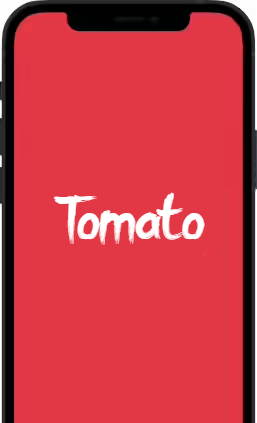
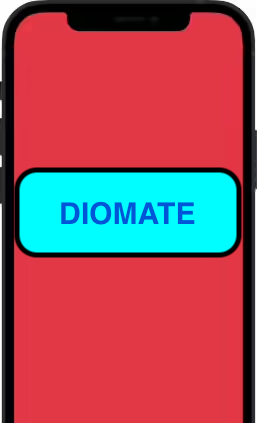
Updated

Changed region(s): [[0.0311, 0.3688, 0.965, 0.6147]]

diff --git a/src/pages/User/User.jsx b/src/pages/User/User.jsx
@@ -30,15 +30,15 @@ const User = () => {
     ];
 
     let data3 = [
-        {userId: 123, imgSrc:userImg, userName: "Koushil Mankali", reviews: 200, followers: "123"},
-        {userId: 123, imgSrc:userImg, userName: "Koushil Mankali", reviews: 200, followers: "123"},
-        {userId: 123, imgSrc:userImg, userName: "Koushil Mankali", reviews: 200, followers: "123"},
-        {userId: 123, imgSrc:userImg, userName: "Koushil Mankali", reviews: 200, followers: "123"}
+        {userId: 123, imgSrc:userImg, userName: "Khushdeep Kaur", reviews: 200, followers: "123"},
+        {userId: 123, imgSrc:userImg, userName: "Khushdeep Kaur", reviews: 200, followers: "123"},
+        {userId: 123, imgSrc:userImg, userName: "Khushdeep kaur", reviews: 200, followers: "123"},
+        {userId: 123, imgSrc:userImg, userName: "Khushdeep Kaur", reviews: 200, followers: "123"}
     ]
 
     let data4 = {
       profilePic: userImg,
-      userName: "Diomate",
+      userName: "Khushdeep kaur",
       reviews: 1,
       photos: 1,
       followers: 200
@@ -56,7 +56,7 @@ const User = () => {
           <LeftSideCardPanel name='ONLINE ORDERING' data={data2} />
           <LeftSideCardPanel name='TABLE BOOKING' data={data5} />
           <SuggestedFollowCard name='SUGGESTED FOODIES TO FOLLOW' data={data3} />
-          <ProfileWidget name='DIOMATE PROFILE WIDGET' tag="Showcase your Zomato profile on your blog." data={data4} />
+          <ProfileWidget name='DIOMATE PROFILE WIDGET' tag="Showcase your Diomate profile on your blog." data={data4} />
         </div>
         <div className={css.rightBox}>
           <UserProfileRightsideBar />
